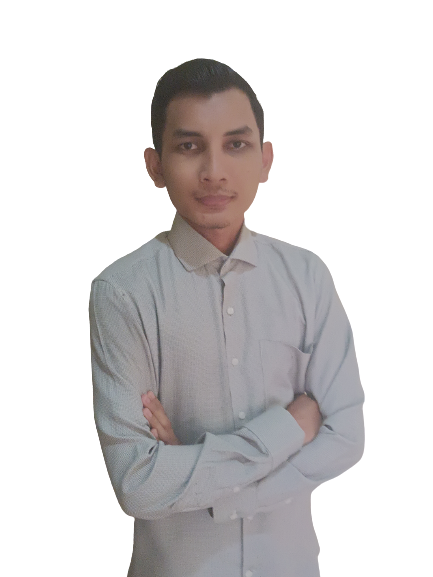
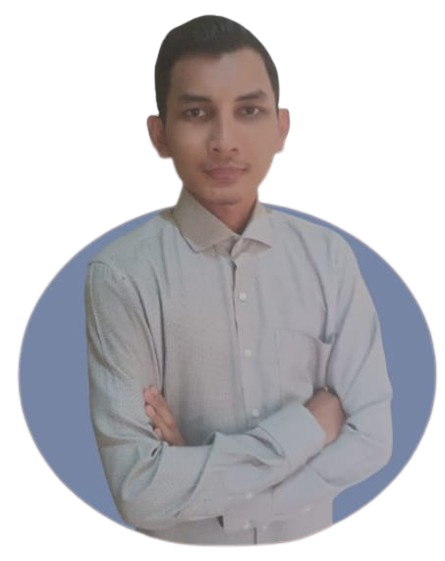
change hero background

Changed region(s): [[0.03, 0.0, 0.9908, 1.0], [0.5104, 0.5758, 0.5404, 0.6061], [0.3002, 0.5455, 0.3303, 0.5758]]

diff --git a/src/App.css b/src/App.css
@@ -474,18 +474,15 @@ main { overflow-x: hidden; }
 
 .background-circle {
   background: url(assets/pro_photo.png);
-  border-radius: 50%;
-  width: 400px;
-  height: 400px;
+  width: 500px;
+  height: 550px;
   margin-inline: auto;
   display: flex;
   justify-content: center;
-  max-width: 500px;
-  margin-top: 170px;
-  background-color: rgb(232, 234, 236);
-  z-index: 9;
-  box-shadow: 0 0 10px var(--color-primary);
-  background-size: cover;
+  margin-top: 90px;
+  z-index: 3;
+  background-repeat: no-repeat;
+  background-position: center;
 }
 
 
@@ -522,7 +519,10 @@ h2 {
  * #STATS
 \*-----------------------------------*/
 
-.stats { padding-block: var(--section-padding); }
+.stats { 
+  padding-block: var(--section-padding); 
+  margin-top: 50px;
+}
 
 .stats-list {
   display: grid;
@@ -592,8 +592,16 @@ h2 {
   width: 350px;
   height: 350px;
   border-radius: 50%;
+  cursor: pointer;
   filter: grayscale(60%);
   box-shadow: 0 0 10px var(--color-primary);
+  transition: var(--transition-1);
+}
+
+.about-banner .img-about:is(:hover, :focus) {
+  width: 370px;
+  height: 370px;
+  transform: rotate(3deg);
 }
 
 .about .btn {

diff --git a/src/component/Content/Stats/Stats.jsx b/src/component/Content/Stats/Stats.jsx
@@ -31,7 +31,7 @@ const Stats = () => {
               </div>
 
               <h2 className="h2 card-title">
-                3 <strong>Completed Projects</strong>
+                10+ <strong>Completed Projects</strong>
               </h2>
 
             </a>
@@ -45,7 +45,7 @@ const Stats = () => {
               </div>
 
               <h2 className="h2 card-title">
-                <strong>Happy Clients</strong>
+                50+<strong>Happy Clients</strong>
               </h2>
 
             </a>

diff --git a/src/component/Content/Hero/Hero.jsx b/src/component/Content/Hero/Hero.jsx
@@ -26,7 +26,8 @@ const Hero = () => {
         </div>
       </div>
       <div class="hero-banner">
-        <div class="background-circle"></div>
+        <div class="background-circle">
+        </div>
       </div>
       <ul className="hero-social-list">
         <li>
